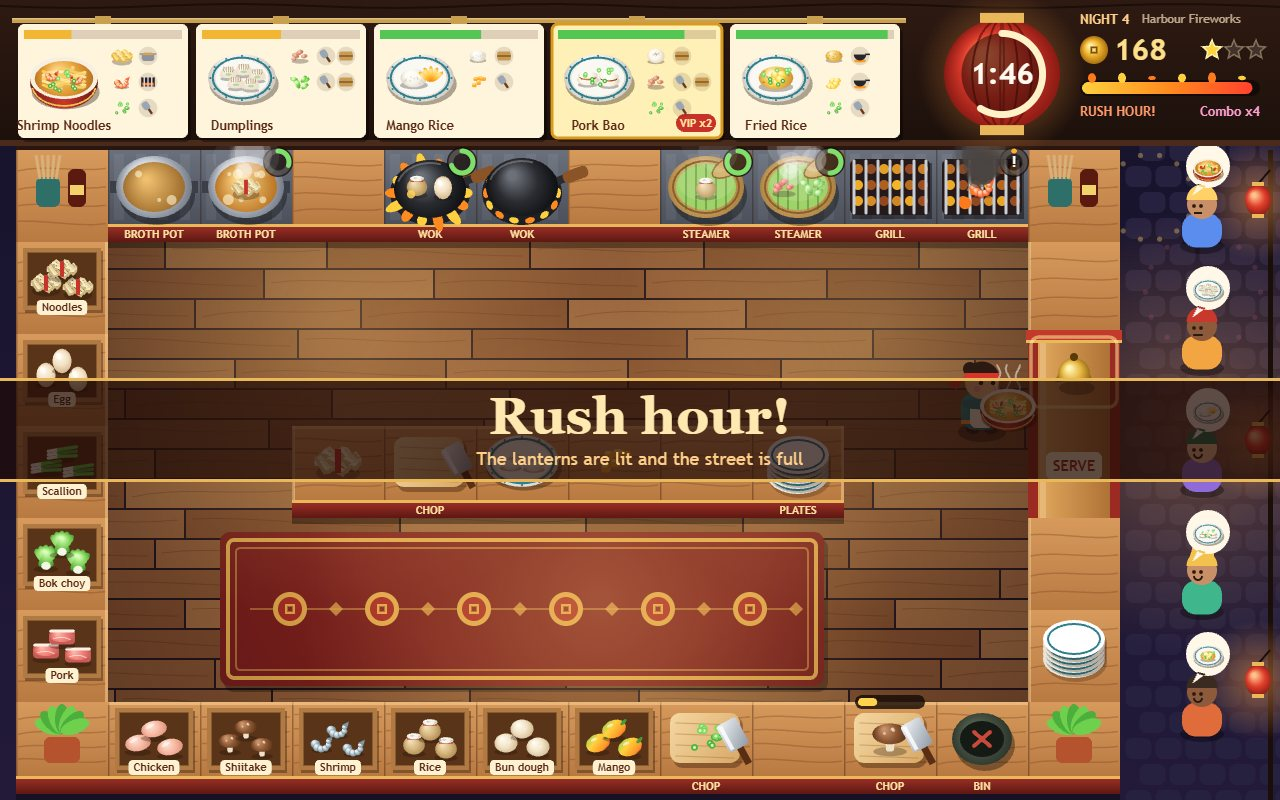
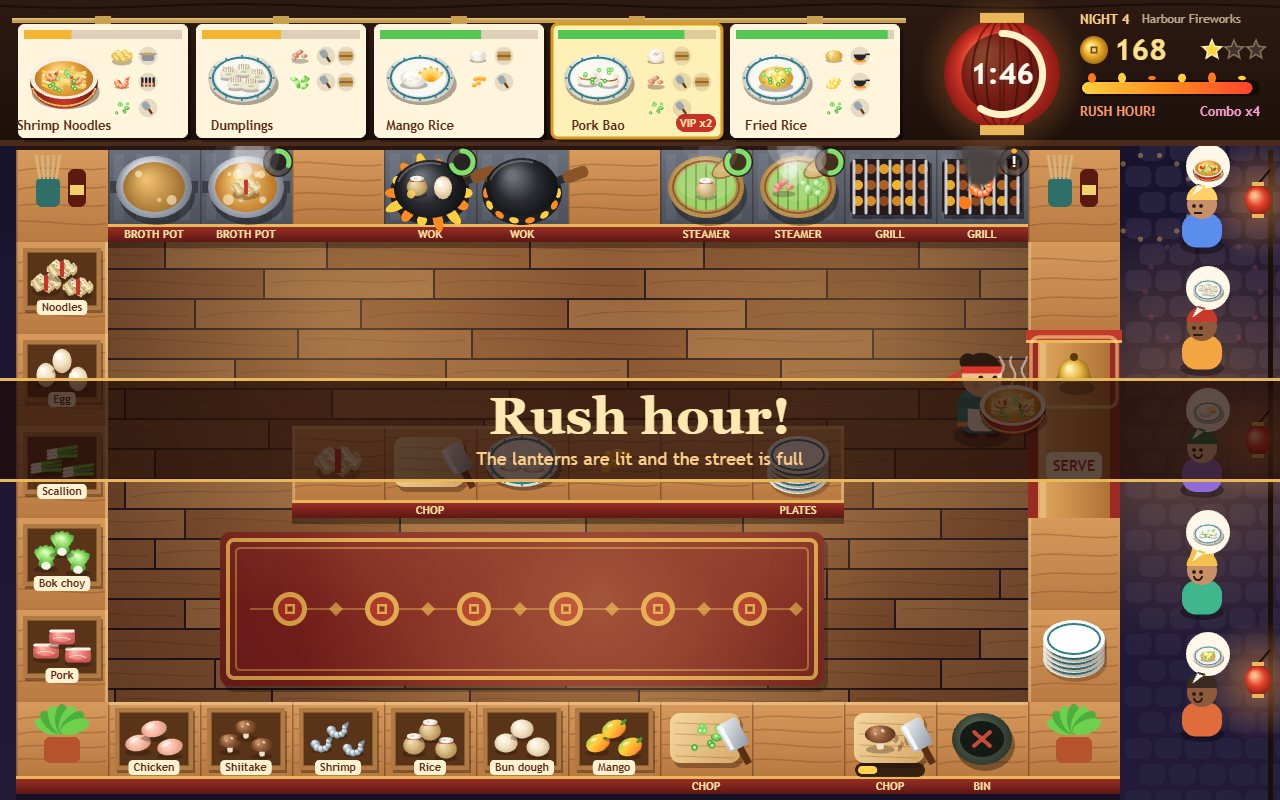
Show chopping on the board, larger cook, tidy dead code and facing logic

Changed region(s): [[0.6562, 0.8438, 0.7188, 1.0], [0.75, 0.4375, 0.8125, 0.5625]]

diff --git a/game/src/player.js b/game/src/player.js
@@ -1,6 +1,6 @@
 // The cook: walks the floor with keys or by following a clicked path, slides along counters, faces
 // the way they last moved and works the station in front of them.
-import { GRID_X, GRID_Y, PLAYER_RADIUS, PLAYER_SPEED, TILE } from './config.js';
+import { PLAYER_RADIUS, PLAYER_SPEED, TILE } from './config.js';
 import { isFloor, stationAt, tileAt, tileCenter } from './kitchen-layout.js';
 import { pathToStation, findPath } from './pathfind.js';
 
@@ -103,24 +103,16 @@ export function walkTo(player, kitchen, x, y) {
   return null;
 }
 
-/** The station the cook would use now: the tile in front of them, else the nearest one beside them. */
+/** The station the cook would use now: the tile just ahead of them, else the one beside them. */
 export function facingStation(player, kitchen) {
   const probe = TILE * 0.62;
   const ahead = tileAt(player.x + player.fx * probe, player.y + player.fy * probe);
   const front = stationAt(kitchen, ahead.c, ahead.r);
   if (front && front.type !== 'decor') return front;
-  const ax = Math.abs(player.fx) >= Math.abs(player.fy);
+  // Else the neighbour along the main axis the cook faces.
   const here = tileAt(player.x, player.y);
-  const tries = ax
-    ? [[Math.sign(player.fx), 0], [0, Math.sign(player.fy) || 1], [0, -(Math.sign(player.fy) || 1)]]
-    : [[0, Math.sign(player.fy)], [Math.sign(player.fx) || 1, 0], [-(Math.sign(player.fx) || 1), 0]];
-  for (const [dc, dr] of tries.slice(0, 1)) {
-    const s = stationAt(kitchen, here.c + dc, here.r + dr);
-    if (s && s.type !== 'decor') return s;
-  }
-  return null;
+  const [dc, dr] = Math.abs(player.fx) >= Math.abs(player.fy) ? [Math.sign(player.fx), 0] : [0, Math.sign(player.fy)];
+  const side = stationAt(kitchen, here.c + dc, here.r + dr);
+  return side && side.type !== 'decor' ? side : null;
 }
 
-export function playerTile(player) {
-  return { c: Math.floor((player.x - GRID_X) / TILE), r: Math.floor((player.y - GRID_Y) / TILE) };
-}

diff --git a/game/src/kitchen-art.js b/game/src/kitchen-art.js
@@ -556,7 +556,15 @@ export function drawStationTop(ctx, station, t, menu, chopSwing) {
   else if (station.type === 'wok') drawWok(ctx, station, t);
   else if (station.type === 'steamer') drawSteamer(ctx, station, t);
   else if (station.type === 'grill') drawGrill(ctx, station, t);
-  if (station.held) drawHeldThing(ctx, station.held, cx, cy - 2, t, menu);
+  const thing = station.held;
+  if (thing && station.type === 'board' && canChop(thing) && thing.progress > 0) {
+    // Mid-chop: the whole piece shrinks as the cut pile beside it grows.
+    const p = Math.min(1, thing.progress);
+    drawIngredient(ctx, thing, cx - 8 - p * 6, cy - 2, 52 * (1 - p * 0.45));
+    ctx.globalAlpha = Math.min(1, p * 1.6);
+    drawIngredient(ctx, { ...thing, state: 'chopped' }, cx + 10, cy + 4, 30 + p * 16);
+    ctx.globalAlpha = 1;
+  } else if (thing) drawHeldThing(ctx, thing, cx, cy - 2, t, menu);
   if (station.type === 'board') drawCleaver(ctx, cx, cy, chopSwing);
 }
 
@@ -607,8 +615,8 @@ export function drawStationStatus(ctx, station, t) {
   }
   if (station.type === 'board' && canChop(station.held) && station.held.progress > 0) {
     const w = 64;
-    rrect(ctx, cx - w / 2 - 3, cy - 44, w + 6, 14, 7, 'rgba(20,10,5,0.8)');
-    rrect(ctx, cx - w / 2, cy - 41, w * Math.min(1, station.held.progress), 8, 4, '#ffd34e');
+    rrect(ctx, cx - w / 2 - 3, cy + 24, w + 6, 14, 7, 'rgba(20,10,5,0.8)');
+    rrect(ctx, cx - w / 2, cy + 27, w * Math.min(1, station.held.progress), 8, 4, '#ffd34e');
   }
 }
 

diff --git a/game/src/ingredients.js b/game/src/ingredients.js
@@ -17,25 +17,14 @@ export const INGREDIENTS = {
   mango: { name: 'Mango', color: '#ffb52e', steps: { raw: { board: 'chopped' } } },
 };
 
-export const INGREDIENT_IDS = Object.keys(INGREDIENTS);
-
 /** The word a ticket uses for each tool. */
 export const TOOL_VERBS = { board: 'chop', pot: 'boil', wok: 'fry', steamer: 'steam', grill: 'grill' };
-
-/** The tool that leads from `from` to `to` for `ing`, or null. */
-export function toolFor(ing, from, to) {
-  const steps = INGREDIENTS[ing].steps[from];
-  if (!steps) return null;
-  for (const tool of Object.keys(steps)) if (steps[tool] === to) return tool;
-  return null;
-}
 
 /**
  * The tools an item passes through on its way to `state`, in order (raw pork to steamed is
  * board then steamer). Used by tickets and the recipe book to show the route.
  */
 export function routeTo(ing, state) {
-  const route = [];
   const search = (from, path) => {
     if (from === state) return path;
     const steps = INGREDIENTS[ing].steps[from];
@@ -46,7 +35,7 @@ export function routeTo(ing, state) {
     }
     return null;
   };
-  return search('raw', route) ?? route;
+  return search('raw', []) ?? [];
 }
 
 export function newItem(ing) {

diff --git a/game/src/people-art.js b/game/src/people-art.js
@@ -12,7 +12,19 @@ function drawHeld(ctx, held, x, y, t) {
   else drawIngredient(ctx, held, x, y, 40);
 }
 
+const COOK_SCALE = 1.18;
+
+/** The cook, drawn a little larger than a tile's food so they read at a glance. */
 export function drawCook(ctx, player, t) {
+  ctx.save();
+  ctx.translate(player.x, player.y);
+  ctx.scale(COOK_SCALE, COOK_SCALE);
+  ctx.translate(-player.x, -player.y);
+  drawCookBody(ctx, player, t);
+  ctx.restore();
+}
+
+function drawCookBody(ctx, player, t) {
   const { x, y, fx, fy } = player;
   const bob = player.moving ? Math.abs(Math.sin(player.walk)) * 3 : 0;
   const chopping = !!player.chopping;

diff --git a/game/src/screens.js b/game/src/screens.js
@@ -5,7 +5,7 @@ import { INGREDIENTS, TOOL_VERBS, routeTo } from './ingredients.js';
 import { NIGHTS, RECIPES } from './recipes.js';
 import { drawDish, drawIngredient } from './food-art.js';
 import { drawCoin, drawStar, drawToolIcon } from './hud.js';
-import { TAU, circle, oval, radial, rrect, text } from './paint.js';
+import { circle, oval, radial, rrect, text } from './paint.js';
 
 
 function veil(ctx, alpha) {

diff --git a/game/src/kitchen-layout.js b/game/src/kitchen-layout.js
@@ -69,6 +69,3 @@ export function isFloor(kitchen, c, r) {
   return c >= 0 && r >= 0 && c < COLS && r < ROWS && kitchen.grid[r][c] === null;
 }
 
-export function findStations(kitchen, type) {
-  return kitchen.stations.filter((s) => s.type === type);
-}
